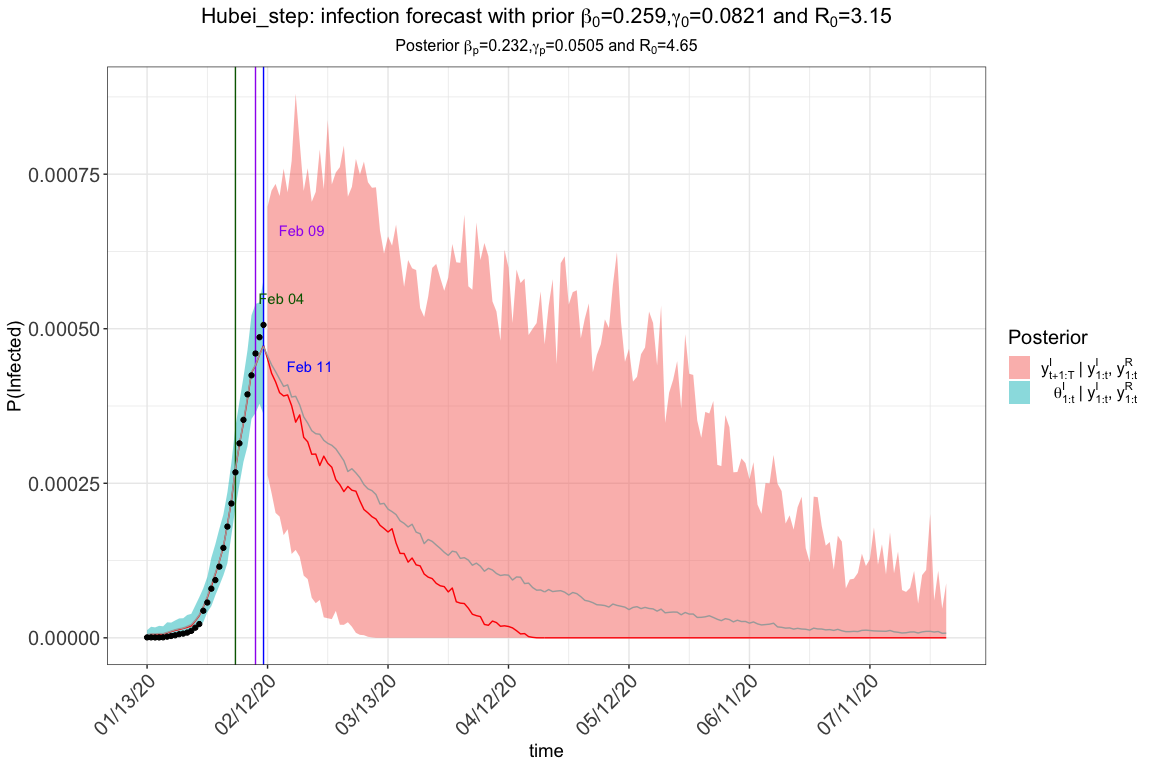
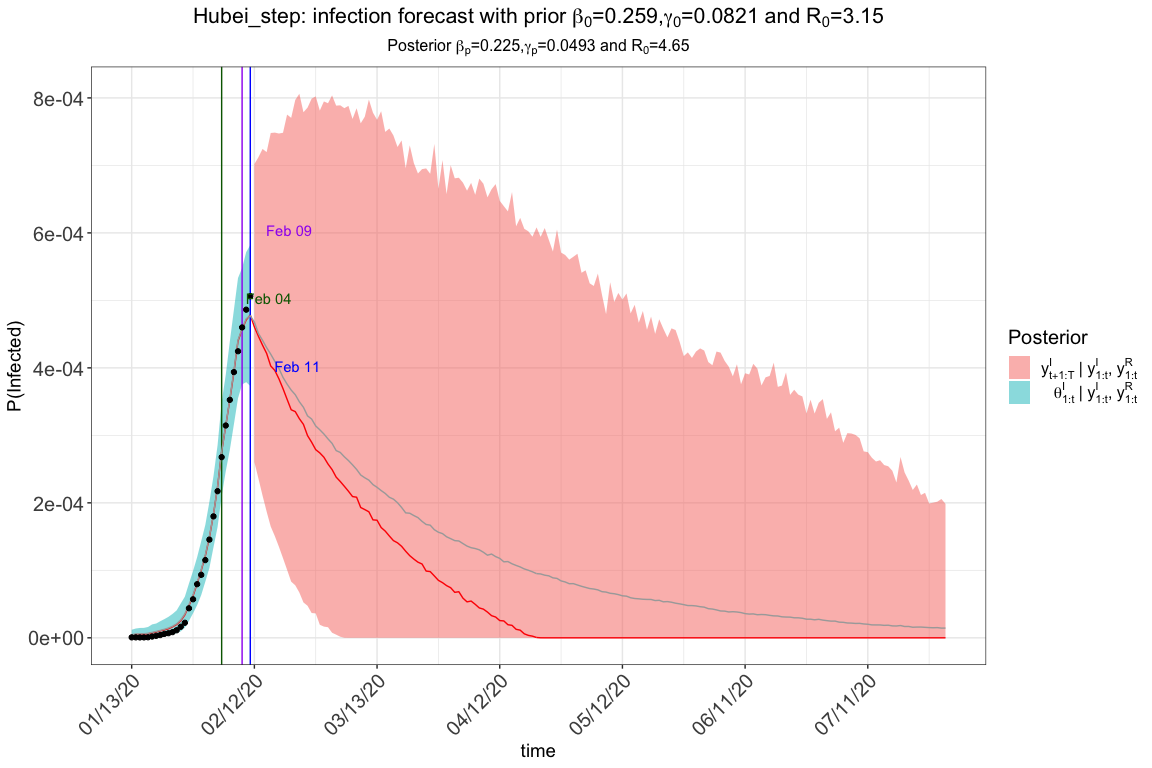
longer chains

diff --git a/README.md b/README.md
@@ -57,7 +57,9 @@ By introducing a time-dependent
 *β*
 , we can depict a series of time-varying changes caused by either external variations like government policies, protective measures and environment changes, or internal variations like mutations and evolutions of the pathogen.
 
-The function can be either stepwise or exponential: !![pi functions](man/figures/pi_functions.png)
+The function can be either stepwise or exponential:
+
+![pi functions](man/figures/pi_functions.png)
 
 ![Standard SIR](man/figures/model1.png)
 
@@ -87,7 +89,7 @@ NI_complete <- c( 41,41,41,45,62,131,200,270,375,444,549, 729,
   change_time <- c("01/23/2020","02/04/2020","02/08/2020")
   pi0<- c(1.0,0.9,0.5,0.1)
   res.step <-tvt.eSIR(Y,R,begin_str="01/13/2020",death_in_R = 0.4,T_fin=200,
-                    pi0=pi0,change_time=change_time,dic=T,casename="Hubei_step",                   save_files = T, save_mcmc=F,M=5e2,nburnin = 2e2)
+                    pi0=pi0,change_time=change_time,dic=T,casename="Hubei_step",                   save_files = T, save_mcmc=F,M=5e3,nburnin = 2e3)
 #> The follow-up is from 01/13/20 to 07/30/20 and the last observed date is 02/11/20.
 #> Running for step-function pi(t)
 #> Compiling model graph
@@ -114,15 +116,15 @@ NI_complete <- c( 41,41,41,45,62,131,200,270,375,444,549, 729,
 
 ``` r
   res.step$dic_val
-#> Mean deviance:  -1265 
-#> penalty 40.72 
-#> Penalized deviance: -1225
+#> Mean deviance:  -1262 
+#> penalty 40.01 
+#> Penalized deviance: -1222
 
   ### continuous exponential function of pi(t)
   res.exp <- tvt.eSIR(Y,R,begin_str="01/13/2020",death_in_R = 0.4,
                       T_fin=200,exponential=TRUE,dic=F,lambda0=0.05,
                      casename="Hubei_exp",save_files = F,save_mcmc=F,
-                  M=5e2,nburnin = 2e2)
+                  M=5e3,nburnin = 2e3)
 #> The follow-up is from 01/13/20 to 07/30/20 and the last observed date is 02/11/20.
 #> Running for exponential-function pi(t)
 #> Compiling model graph
@@ -145,7 +147,7 @@ NI_complete <- c( 41,41,41,45,62,131,200,270,375,444,549, 729,
   ### without pi(t), the standard state-space SIR model without intervention
   res.nopi <- tvt.eSIR(Y,R,begin_str="01/13/2020",death_in_R = 0.4,
                        T_fin=200,casename="Hubei_nopi",save_files = F,
-                       M=5e2,nburnin = 2e2)
+                       M=5e3,nburnin = 2e3)
 #> The follow-up is from 01/13/20 to 07/30/20 and the last observed date is 02/11/20.
 #> Running without pi(t)
 #> Compiling model graph
@@ -190,7 +192,7 @@ NI_complete <- c( 41,41,41,45,62,131,200,270,375,444,549, 729,
   res.q <- qh.eSIR (Y,R,begin_str="01/13/2020",death_in_R = 0.4,
                     phi0=phi0,change_time=change_time,
                     casename="Hubei_q",save_files = T,save_mcmc = F,
-                    M=5e2,nburnin = 2e2)
+                    M=5e3,nburnin = 2e3)
 #> The follow-up is from 01/13/20 to 07/30/20 and the last observed date is 02/11/20.
 #> Running for qh.eSIR
 #> Compiling model graph
@@ -214,7 +216,7 @@ NI_complete <- c( 41,41,41,45,62,131,200,270,375,444,549, 729,
 
   #res.noq <- qh.eSIR (Y,R,begin_str="01/13/2020",death_in_R = 0.4,
   #                    T_fin=200,casename="Hubei_noq",
-  #                    M=5e2,nburnin = 2e2)
+  #                    M=5e3,nburnin = 2e3)
   #res.noq$plot_infection
 ```
 
@@ -246,3 +248,4 @@ License][cc-by].
 [cc-by]: http://creativecommons.org/licenses/by/4.0/
 [cc-by-image]: https://i.creativecommons.org/l/by/4.0/88x31.png
 [cc-by-shield]: https://img.shields.io/badge/License-CC%20BY%204.0-lightgrey.svg
+
